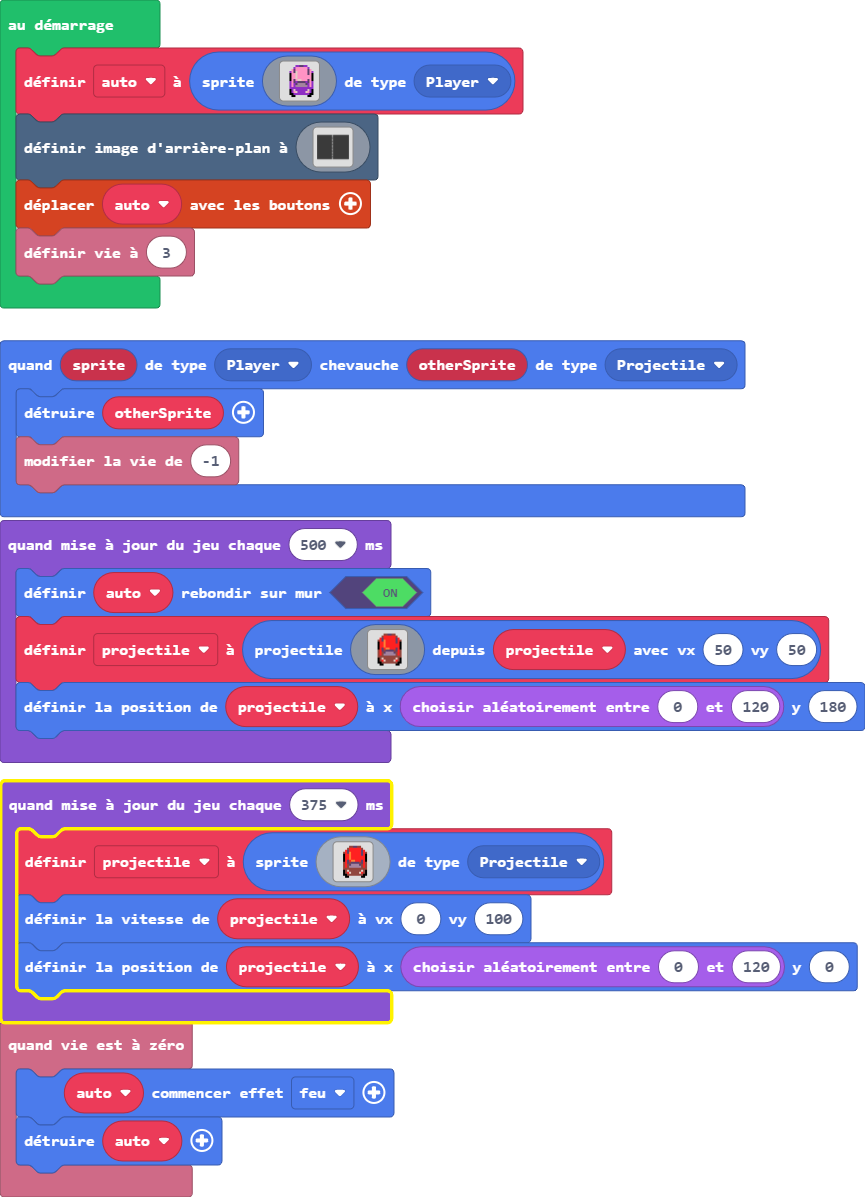
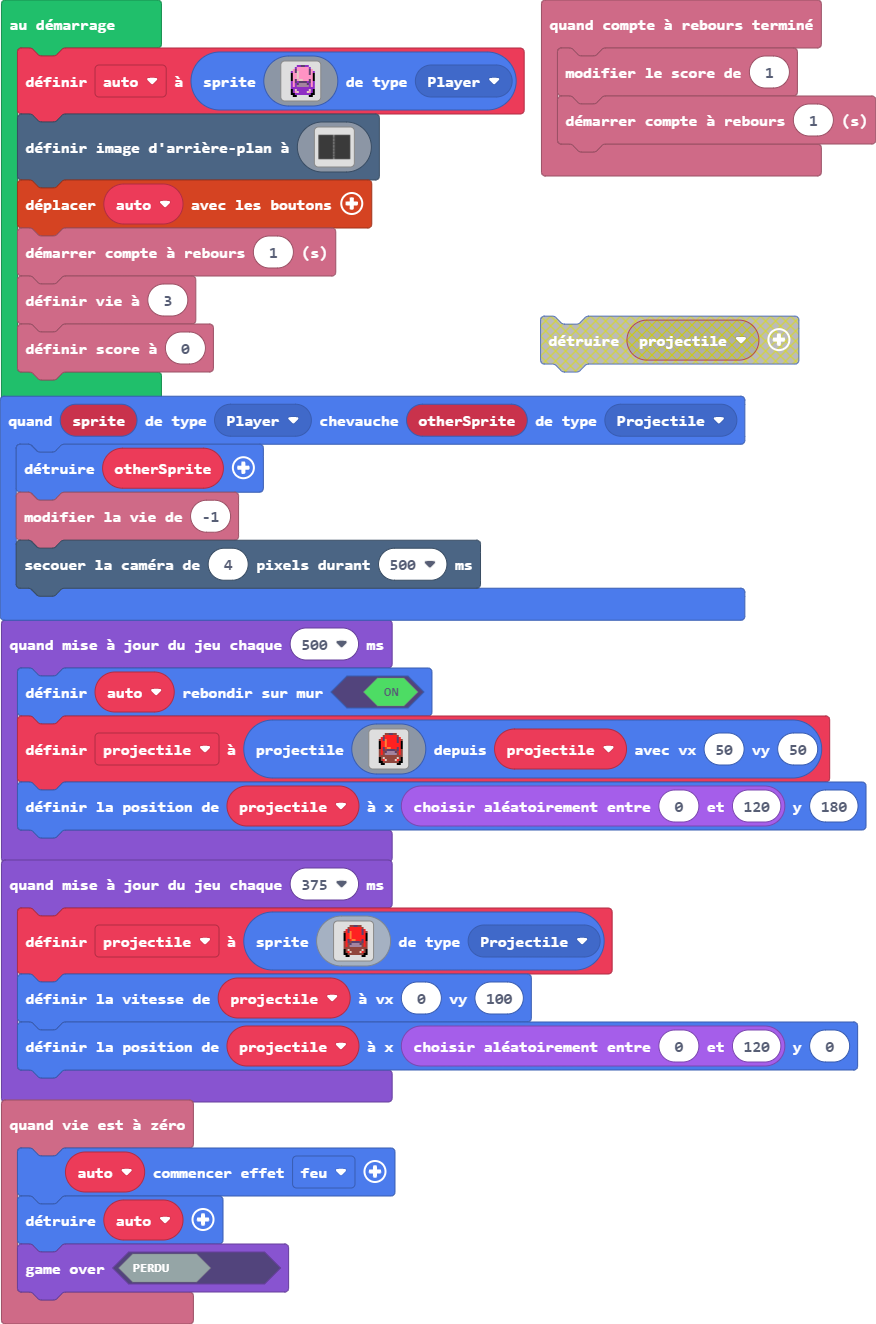
Mise à jour pxt.json, main.blocks, main.ts, tilemap.g.jres, tilemap.g.ts

diff --git a/tilemap.g.ts b/tilemap.g.ts
@@ -1,0 +1,39 @@
+// Code généré automatiquement. Ne pas modifier.
+namespace myTiles {
+    //% fixedInstance jres blockIdentity=images._tile
+    export const transparency16 = image.ofBuffer(hex``);
+
+    helpers._registerFactory("tilemap", function(name: string) {
+        switch(helpers.stringTrim(name)) {
+            case "niveau1":
+            case "niveau1":return tiles.createTilemap(hex`1000100000000000000000000000000000000000000000000000000000000000000000000000000000000000000000000000000000000000000000000000000000000000000000000000000000000000000000000000000000000000000000000000000000000000000000000000000000000000000000000000000000000000000000000000000000000000000000000000000000000000000000000000000000000000000000000000000000000000000000000000000000000000000000000000000000000000000000000000000000000000000000000000000000000000000000000000000000000000000000000000000000000000000000000000000000000000`, img`
+. . . . . . . . . . . . . . . . 
+. . . . . . . . . . . . . . . . 
+. . . . . . . . . . . . . . . . 
+. . . . . . . . . . . . . . . . 
+. . . . . . . . . . . . . . . . 
+. . . . . . . . . . . . . . . . 
+. . . . . . . . . . . . . . . . 
+. . . . . . . . . . . . . . . . 
+. . . . . . . . . . . . . . . . 
+. . . . . . . . . . . . . . . . 
+. . . . . . . . . . . . . . . . 
+. . . . . . . . . . . . . . . . 
+. . . . . . . . . . . . . . . . 
+. . . . . . . . . . . . . . . . 
+. . . . . . . . . . . . . . . . 
+. . . . . . . . . . . . . . . . 
+`, [myTiles.transparency16], TileScale.Sixteen);
+        }
+        return null;
+    })
+
+    helpers._registerFactory("tile", function(name: string) {
+        switch(helpers.stringTrim(name)) {
+            case "transparency16":return transparency16;
+        }
+        return null;
+    })
+
+}
+// Code généré automatiquement. Ne pas modifier.

diff --git a/main.ts b/main.ts
@@ -1,10 +1,16 @@
+info.onCountdownEnd(function () {
+    info.changeScoreBy(1)
+    info.startCountdown(1)
+})
 sprites.onOverlap(SpriteKind.Player, SpriteKind.Projectile, function (sprite, otherSprite) {
     otherSprite.destroy()
     info.changeLifeBy(-1)
+    scene.cameraShake(4, 500)
 })
 info.onLifeZero(function () {
     auto.startEffect(effects.fire)
     auto.destroy()
+    game.gameOver(false)
 })
 let projectile: Sprite = null
 let auto: Sprite = null
@@ -149,7 +155,9 @@ scene.setBackgroundImage(img`
[1 lines of base64/hex data omitted]
     `)
 controller.moveSprite(auto)
+info.startCountdown(1)
 info.setLife(3)
+info.setScore(0)
 game.onUpdateInterval(375, function () {
     projectile = sprites.create(img`
         . . . . . . e e c c e e . . . . 
